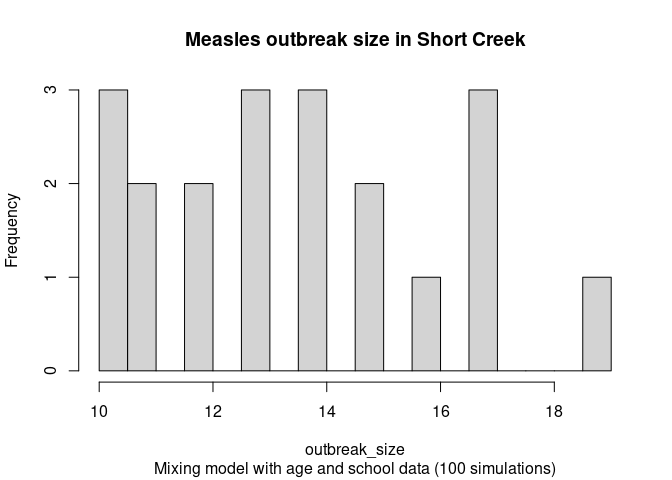
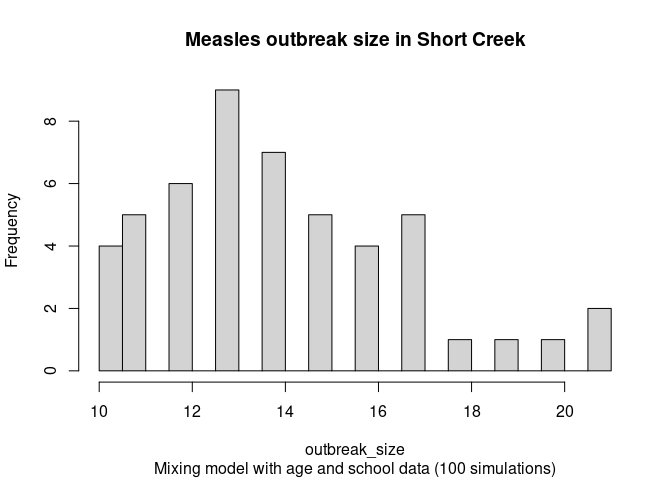
Running about 50 sims. Works alright

diff --git a/README.md b/README.md
@@ -127,14 +127,14 @@ Running the model
 davis_model |>
   run_multiple(
     ndays = 100,
-    nsims = 20,
+    nsims = 50,
     seed  = 8812,
     saver = make_saver("outbreak_size", "hospitalizations"),
-    nthreads = 8L
+    nthreads = 10L
   )
 ```
 
-    Starting multiple runs (20) using 8 thread(s)
+    Starting multiple runs (50) using 10 thread(s)
     _________________________________________________________________________
     _________________________________________________________________________
     ||||||||||||||||||||||||||||||||||||||||||||||||||||||||||||||||||||||||| done.
@@ -155,10 +155,10 @@ summary(davis_model)
     Number of entities  : 142
     Days (duration)     : 100 (of 100)
     Number of viruses   : 1
-    Last run elapsed t  : 16.00s
-    Total elapsed t     : 50.00s (20 runs)
-    Last run speed      : 2.27 million agents x day / second
-    Average run speed   : 15.02 million agents x day / second
+    Last run elapsed t  : 0.00m
+    Total elapsed t     : 2.00m (50 runs)
+    Last run speed      : 2.11 million agents x day / second
+    Average run speed   : 13.90 million agents x day / second
     Rewiring            : off
 
     Global events:
@@ -186,7 +186,7 @@ summary(davis_model)
      - Quarantine willingness       : 1.0000
 
     Distribution of the population at time 100:
-      - ( 0) Susceptible             : 378462 -> 378462
+      - ( 0) Susceptible             : 378462 -> 378455
       - ( 1) Exposed                 :     10 -> 0
       - ( 2) Infected                :      0 -> 0
       - ( 3) Isolated                :      0 -> 0
@@ -195,16 +195,16 @@ summary(davis_model)
       - ( 6) Quarantined Exposed     :      0 -> 0
       - ( 7) Isolated Recovered      :      0 -> 0
       - ( 8) Hospitalized            :      0 -> 0
-      - ( 9) Recovered               :      0 -> 10
+      - ( 9) Recovered               :      0 -> 17
 
     Transition Probabilities:
-     - Susceptible              1.00  0.00     -     -     -  0.00     -     -     -     -
-     - Exposed                     -  0.89  0.11     -     -     -     -     -     -     -
-     - Infected                    -     -     -     -     -     -     -  0.70     -  0.30
-     - Isolated                    -     -     -     -     -     -     -     -     -     -
+     - Susceptible              1.00  0.00     -     -     -  0.00  0.00     -     -     -
+     - Exposed                     -  0.81  0.19     -     -     -     -     -     -     -
+     - Infected                    -     -     -     -     -     -     -  0.38     -  0.62
+     - Isolated                    -     -     -     -     -     -     -  1.00     -     -
      - Detected Hospitalized       -     -     -     -     -     -     -     -     -     -
      - Quarantined Susceptible  0.07     -     -     -     -  0.93     -     -     -     -
-     - Quarantined Exposed         -     -     -     -     -     -     -     -     -     -
+     - Quarantined Exposed         -     -     -  0.12     -     -  0.88     -     -     -
      - Isolated Recovered          -     -     -     -     -     -     -  0.75     -  0.25
      - Hospitalized                -     -     -     -     -     -     -     -     -     -
      - Recovered                   -     -     -     -     -     -     -     -     -  1.00
@@ -221,12 +221,12 @@ str(ans)
 ```
 
     List of 2
-     $ outbreak_size   :Classes 'epiworld_multiple_save_i', 'data.table' and 'data.frame':  2020 obs. of  5 variables:
-      ..$ sim_num      : int [1:2020] 1 1 1 1 1 1 1 1 1 1 ...
-      ..$ date         : int [1:2020] 0 1 2 3 4 5 6 7 8 9 ...
-      ..$ virus_id     : int [1:2020] 0 0 0 0 0 0 0 0 0 0 ...
-      ..$ virus        : chr [1:2020] "Davis county" "Davis county" "Davis county" "Davis county" ...
-      ..$ outbreak_size: int [1:2020] 10 10 10 10 11 12 12 12 12 12 ...
+     $ outbreak_size   :Classes 'epiworld_multiple_save_i', 'data.table' and 'data.frame':  5050 obs. of  5 variables:
+      ..$ sim_num      : int [1:5050] 1 1 1 1 1 1 1 1 1 1 ...
+      ..$ date         : int [1:5050] 0 1 2 3 4 5 6 7 8 9 ...
+      ..$ virus_id     : int [1:5050] 0 0 0 0 0 0 0 0 0 0 ...
+      ..$ virus        : chr [1:5050] "Davis county" "Davis county" "Davis county" "Davis county" ...
+      ..$ outbreak_size: int [1:5050] 10 10 10 10 11 12 12 12 12 12 ...
       ..- attr(*, ".internal.selfref")=<externalptr> 
       ..- attr(*, "what")= chr "outbreak_size"
      $ hospitalizations:Classes 'epiworld_multiple_save_i' and 'data.frame':    0 obs. of  6 variables:
